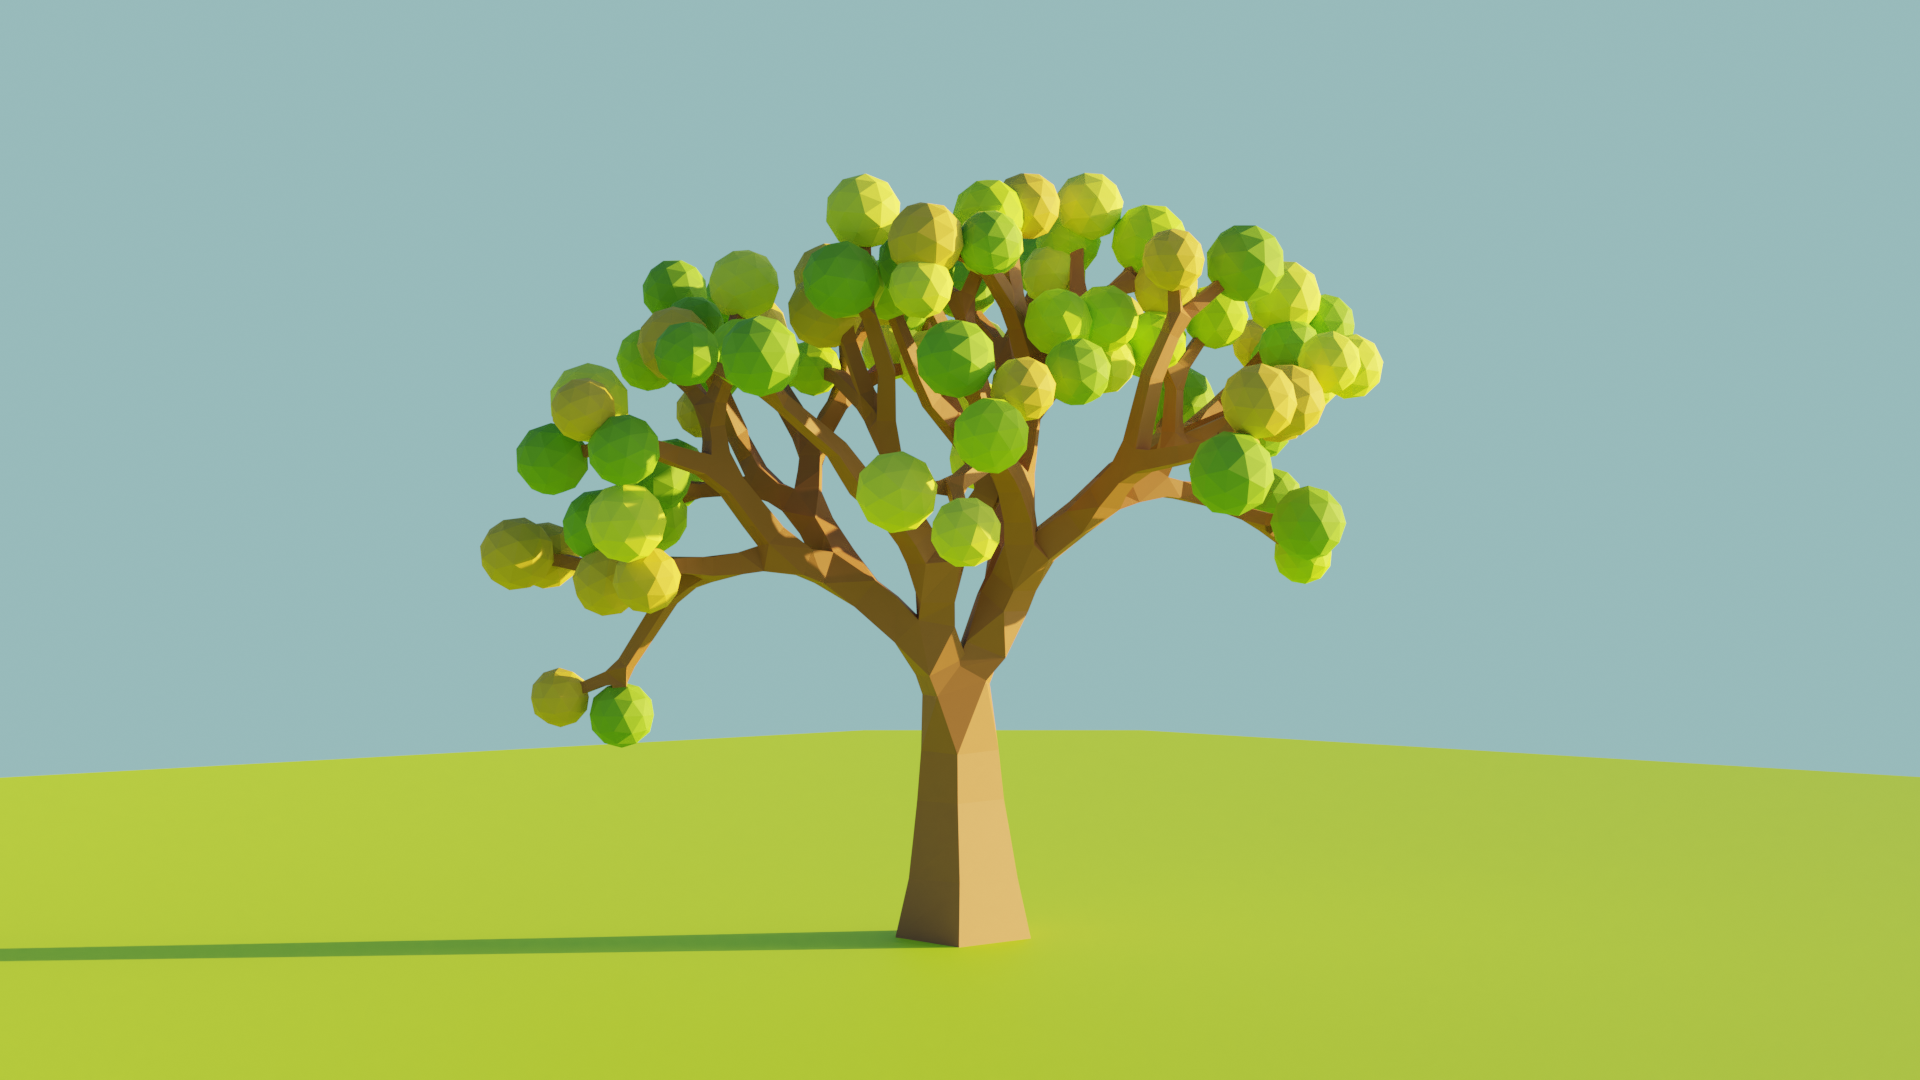
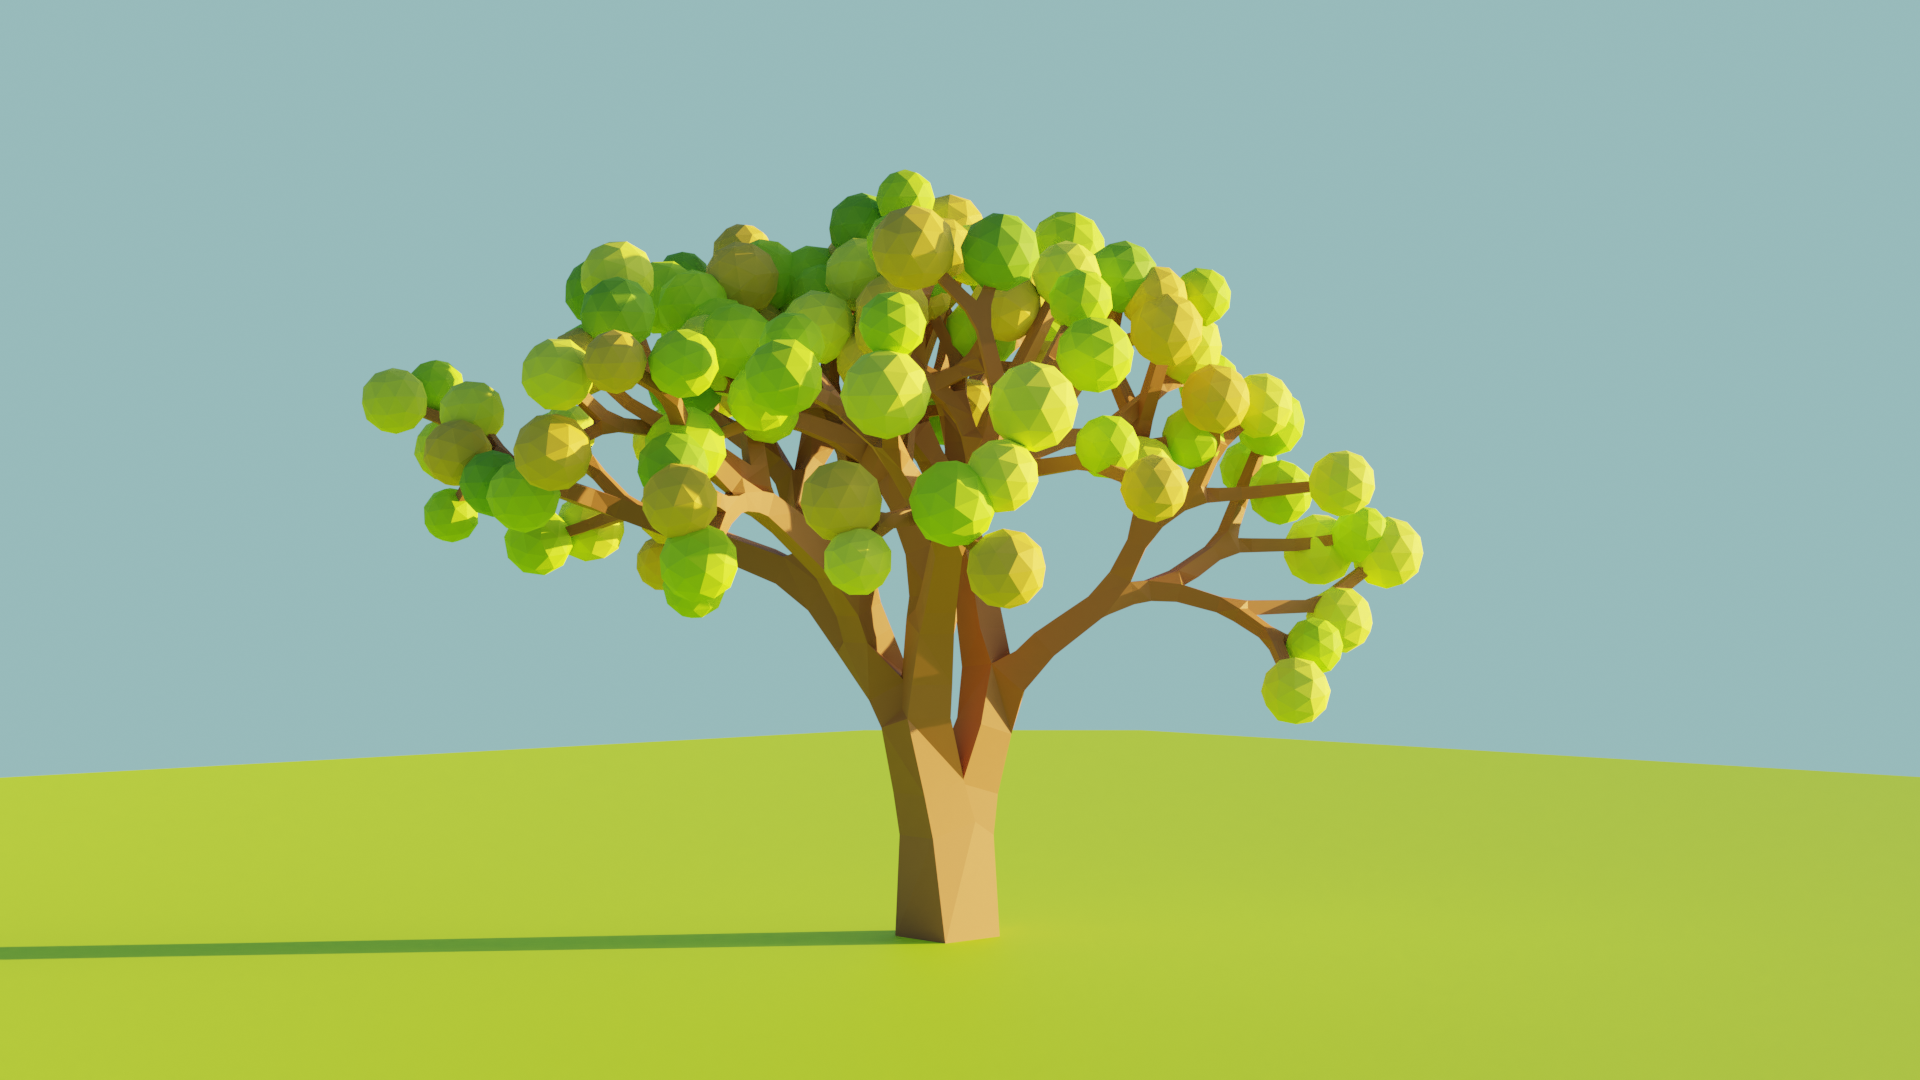
Quality of life improvements
+ You can now set the seed for the RNG
+ Leaves and stem are now added to collections

Changed region(s): [[0.125, 0.1528, 0.75, 0.8861]]

diff --git a/__init__.py b/__init__.py
@@ -12,6 +12,8 @@ bl_info = {
 }
 
 import bpy
+import random
+import string
 from bpy.props import (
     IntProperty,
     FloatProperty,
@@ -52,6 +54,26 @@ class PerformGeneration(bpy.types.Operator):
         return {'FINISHED'}
 
 
+class NewSeed(bpy.types.Operator):
+    bl_idname = "object.new_seed"
+    bl_label = "New seed"
+    bl_space_type = 'VIEW_3D'
+    bl_region_type = 'UI'
+
+    @classmethod
+    def poll(cls, context):
+        return True
+
+    def execute(self, context):
+        scene = context.scene
+        try:
+            letter = string.ascii_letters
+            scene.lptg_seed = ''.join(random.choice(letter) for i in range(10))
+        except ValueError as e:
+            self.report({'ERROR'}, str(e))
+        return {'FINISHED'}
+
+
 class VIEW3D_PT_low_poly_tree(Panel):
 
     bl_category = "Low Poly Tree"
@@ -66,6 +88,14 @@ class VIEW3D_PT_low_poly_tree(Panel):
 
     def draw(self, context):
         layout = self.layout
+
+        row = layout.row()
+        row.operator("object.new_seed")
+
+        row = layout.row()
+        row.column().label(text="Seed")
+        row.column().prop(context.scene, "lptg_seed")
+
         layout.row().prop(context.scene, "lptg_branch_depth")
         layout.row().prop(context.scene, "lptg_init_radius")
         layout.row().prop(context.scene, "lptg_radius_factor")
@@ -94,7 +124,11 @@ class VIEW3D_PT_low_poly_tree(Panel):
 def register():
     bpy.utils.register_class(VIEW3D_PT_low_poly_tree)
     bpy.utils.register_class(PerformGeneration)
+    bpy.utils.register_class(NewSeed)
 
+    bpy.types.Scene.lptg_seed = StringProperty(
+        default="hYukTFphuI",
+        name="", description="Seed for the random number generator")
     bpy.types.Scene.lptg_branch_depth = IntProperty(
         name="Branch depth",
         default=10, min=1, max=20)
@@ -104,7 +138,7 @@ def register():
     bpy.types.Scene.lptg_leaf_material = StringProperty(
         default="leaf_",
         name="", description="Every material which begins with this prefix will be "
-                             "considered as leaf material. The acutal material is "
+                             "considered as leaf material. The individual material is "
                              "chosen randomly for each leaf.")
     bpy.types.Scene.lptg_init_radius = FloatProperty(
         default=1.0, min=0.0, max=10.0,
@@ -116,7 +150,7 @@ def register():
         description="Factor by which the stem radius gets smaller after each section")
     bpy.types.Scene.lptg_stem_section_length = FloatProperty(
         default=2.0, min=0.05, max=10.0,
-        name="Initial stem size",
+        name="Initial stem length",
         description="Initial length of the first section of the stem")
     bpy.types.Scene.lptg_stem_length_factor = FloatProperty(
         default=0.9, min=0.05, max=1.0,
@@ -142,3 +176,4 @@ def register():
 def unregister():
     bpy.utils.unregister_class(VIEW3D_PT_low_poly_tree)
     bpy.utils.unregister_class(PerformGeneration)
+    bpy.utils.unregister_class(NewSeed)

diff --git a/util.py b/util.py
@@ -31,6 +31,7 @@ branch_prop_k = 0.8
 def generate_tree(context, stem_mat=None, leaf_mat_prefix=None,
                   initial_radius=1.0, radius_factor=0.8, depth=10,
                   leaf_size=0.5, leaf_size_deviation=20.0):
+    random.seed(context.scene.lptg_seed, version=2)
     if not context.mode == "OBJECT":
         bpy.ops.object.mode_set(mode="OBJECT")
     mesh = bpy.data.meshes.new("Stem")
@@ -74,13 +75,26 @@ def generate_tree(context, stem_mat=None, leaf_mat_prefix=None,
     # bm.verts.index_update()
     random.choices(bpy.data.materials)
     leaf_mats = [mat for mat in bpy.data.materials if mat.name.startswith(leaf_mat_prefix)]
-    add_leaves(outer_coordinates, stem_obj.matrix_world,
-               leaf_mats=leaf_mats, leaf_size=leaf_size,
-               leaf_size_deviation=leaf_size_deviation,
-               leaf_geometry=context.scene.lptg_leaf_geometry)
+    leaves = add_leaves(outer_coordinates, stem_obj.matrix_world,
+                        leaf_mats=leaf_mats, leaf_size=leaf_size,
+                        leaf_size_deviation=leaf_size_deviation,
+                        leaf_geometry=context.scene.lptg_leaf_geometry)
 
     stem_obj.data.materials.append(stem_mat)
-    # bpy.ops.object.mode_set(mode="EDIT")
+
+    scene_coll = bpy.context.scene.collection
+
+    coll_tree = bpy.data.collections.new("Tree")
+    coll_stem = bpy.data.collections.new("Stem")
+    coll_leaves = bpy.data.collections.new("Leaves")
+    coll_tree.children.link(coll_stem)
+    coll_tree.children.link(coll_leaves)
+    coll_stem.objects.link(stem_obj)
+    scene_coll.objects.unlink(stem_obj)
+    for leaf_obj in leaves:
+        coll_leaves.objects.link(leaf_obj)
+        scene_coll.objects.unlink(leaf_obj)
+    scene_coll.children.link(coll_tree)
 
 
 def angle_func(steps):
@@ -203,6 +217,7 @@ def add_leaves2(index_coordinates_map, matrix, leaf_mat, stem_obj):
 def add_leaves(outer_coordinates, matrix, leaf_mats=[], leaf_size=0.5,
                leaf_size_deviation=20.0,
                leaf_geometry='mesh.primitive_ico_sphere_add'):
+    leaf_objects = []
     for v in outer_coordinates:
         my_co = matrix @ v
         if leaf_geometry == 'mesh.primitive_ico_sphere_add':
@@ -219,8 +234,11 @@ def add_leaves(outer_coordinates, matrix, leaf_mats=[], leaf_size=0.5,
         size = random.uniform(leaf_size - deviation, leaf_size + deviation)
         bpy.ops.transform.resize(
             value=(size, size, size))
-        obj = bpy.context.active_object
+        leaf_obj = bpy.context.active_object
         if leaf_mats:
-            obj.data.materials.append(random.choice(leaf_mats))
+            leaf_obj.data.materials.append(random.choice(leaf_mats))
         e, _ = rand_rot(Vector((0.0, 0.0, 1.0)), random.uniform(0, 45))
-        obj.rotation_euler = e
+        leaf_obj.rotation_euler = e
+        leaf_obj.name = "Leaf"
+        leaf_objects.append(leaf_obj)
+    return leaf_objects
